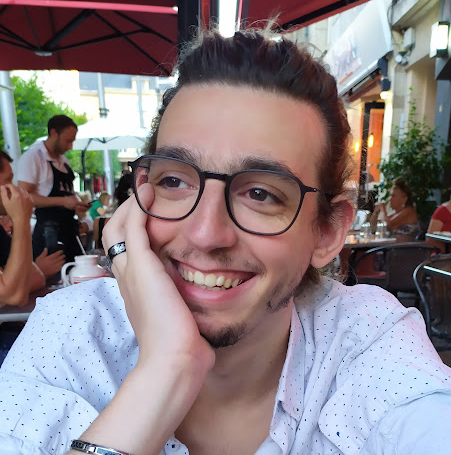
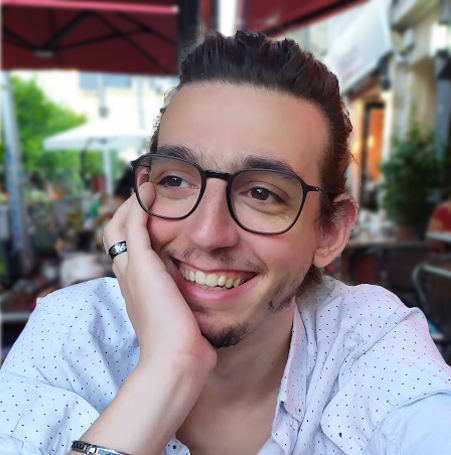
New color, new picture

diff --git a/components/ProjectPreview.js b/components/ProjectPreview.js
@@ -1,9 +1,11 @@
 import { motion } from "framer-motion"
 import Link from 'next/link'
+import { useTranslation } from 'next-i18next'
+
 
 export default function ProjectPreview(props) {
     //const stylised = (<span className="font-medium text-transparent bg-clip-text bg-gradient-to-r from-firstColor to-secondColor">healthier life!</span>);
-    
+    const { t, i18n } = useTranslation('portfolio', { useSuspense: false });
     const tags = props.data.tags.map((tag, index) => {
         return (
             <span key={tag + index}>{tag}</span>
@@ -19,7 +21,7 @@ export default function ProjectPreview(props) {
             viewport={{ once: true }}
         >
             <div className="w-10/12 md:w-full m-auto flex flex-col md:flex-row">
-                <div className="mt-5 md:hidden"><span className="font-medium text-transparent bg-clip-text bg-gradient-to-r from-firstColor to-secondColor">{props.data.solo ? "Solo Project" : "Team Project"} - {props.data.year}</span></div>
+                <div className="mt-5 md:hidden"><span className="font-medium text-transparent bg-clip-text bg-gradient-to-r from-firstColor to-secondColor">{props.data.solo ? t("projects.solo") : t("projects.team")} - {props.data.year}</span></div>
                 <div className="mb-3 md:hidden text-2xl mt-1 font-bold text-slate-300">{props.data.name}</div>
                 <div className="flex-none flex flex-col md:w-1/2 justify-center items-center">
                     <div className={`${props.data.mobile ? "w-4/12" : null} overflow-hidden align-middle rounded-xl md:hover:border-gray-700 border-4 md:border-[6px] hover:border-gray-500 border-gray-600 md:border-gray-800 shadow-xl md:shadow-[0px_0px_20px_20px_rgba(0,0,0,0.3)] md:-skew-y-6 bg-gradient-to-br from-firstColor to-secondColor hover:to-white hover:from-white duration-300`}>
@@ -37,7 +39,7 @@ export default function ProjectPreview(props) {
                     </div>
                 </div>
                 <div className="md:text-right flex flex-col grow">
-                    <div><span className="hidden md:inline-block font-medium text-transparent bg-clip-text bg-gradient-to-r from-firstColor to-secondColor">{props.data.solo ? "Solo Project" : "Team Project"} - {props.data.year}</span></div>
+                    <div><span className="hidden md:inline-block font-medium text-transparent bg-clip-text bg-gradient-to-r from-firstColor to-secondColor">{props.data.solo ? t("projects.solo") : t("projects.team")} - {props.data.year}</span></div>
                     <div className="hidden md:block text-3xl mt-1 font-bold text-slate-300">{props.data.name}</div>
                     <div className="flex md:block">
                         <div className="mt-6 mb-7 md:w-11/12 m-auto md:mx-0 md:mt-6 mb-4 md:p-6 text-sm md:bg-[rgba(255,255,255,0.05)] md:rounded md:shadow-xl text-slate-300 md:float-right"

diff --git a/pages/portfolio.js b/pages/portfolio.js
@@ -8,7 +8,6 @@ import { serverSideTranslations } from 'next-i18next/serverSideTranslations';
 import { Trans } from 'next-i18next';
 
 import ProjectPreview from '../components/ProjectPreview';
-import { initReactI18next } from 'react-i18next';
 
 
 export async function getStaticProps({ locale }) {
@@ -97,9 +96,15 @@ export default function Portfolio() {
         },
     ];
 
-    const projectsPreviews = projects.map((project) => {
-        return <ProjectPreview key={project.name} data={project} lang={i18n.language}></ProjectPreview>
-    });
+    var projectsPreviews;
+
+    function loadProjects() {
+        projectsPreviews = projects.map((project) => {
+            return <ProjectPreview key={project.name} data={project} lang={i18n.language}></ProjectPreview>
+        });
+    }
+
+    loadProjects();
 
     useEffect(() => {
         document.addEventListener("scroll", (event) => {
@@ -194,7 +199,7 @@ export default function Portfolio() {
                         className="flex gap-4 mr-16 hidden md:flex"
                     >
                         <Link locale={`${i18n.language == "fr" ? "en" : "fr"}`} href="/portfolio" variants={item}>
-                            <motion.span variants={item} className="mr-10 m-auto text-slate-500 hover:text-slate-400 font-semibold cursor-pointer">{i18n.language == "fr" ? "EN" : "FR"}</motion.span>
+                            <motion.span onClick={() => {loadProjects()}} variants={item} className="mr-10 m-auto text-slate-500 hover:text-slate-400 font-semibold cursor-pointer">{i18n.language == "fr" ? "EN" : "FR"}</motion.span>
                         </Link>
 
                         {[{content: t("menu.about"), target: "#About"}, {content: t("menu.projects"), target: "#Projects"}, {content:t("menu.contact"), target: "#Contact"}].map((element, index) => {

diff --git a/tailwind.config.js b/tailwind.config.js
@@ -10,8 +10,8 @@ module.exports = {
         flip: '-1',
       },
       colors: {
-        'firstColor': '#3B82F6',
-        'secondColor': '#E879F9',
+        'firstColor': '#22d3ee',
+        'secondColor': '#4ade80',
         'backgroundColor': '#192236'
       },
     },
